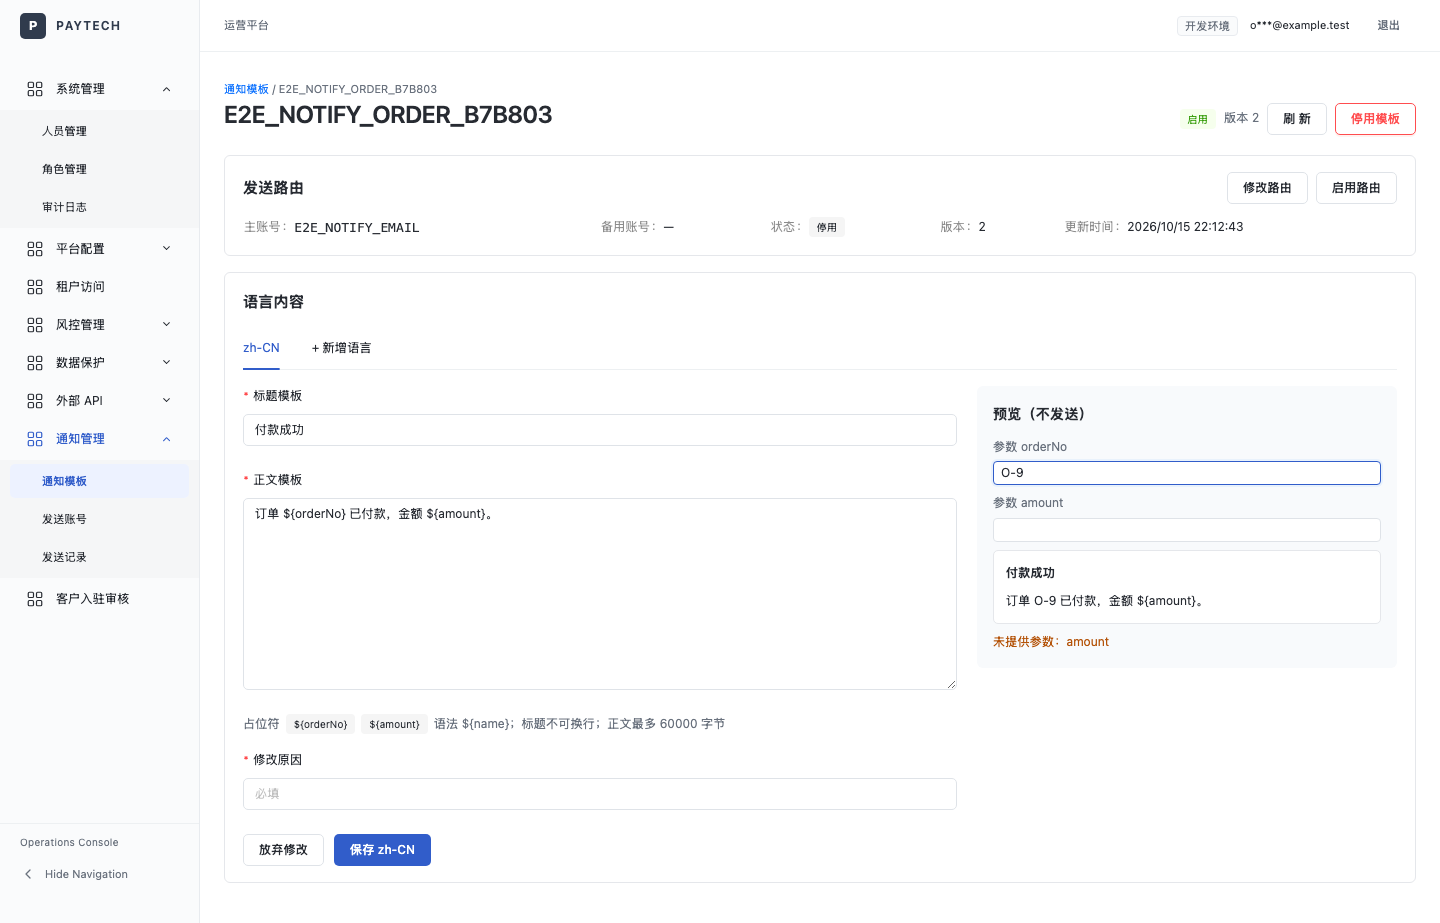
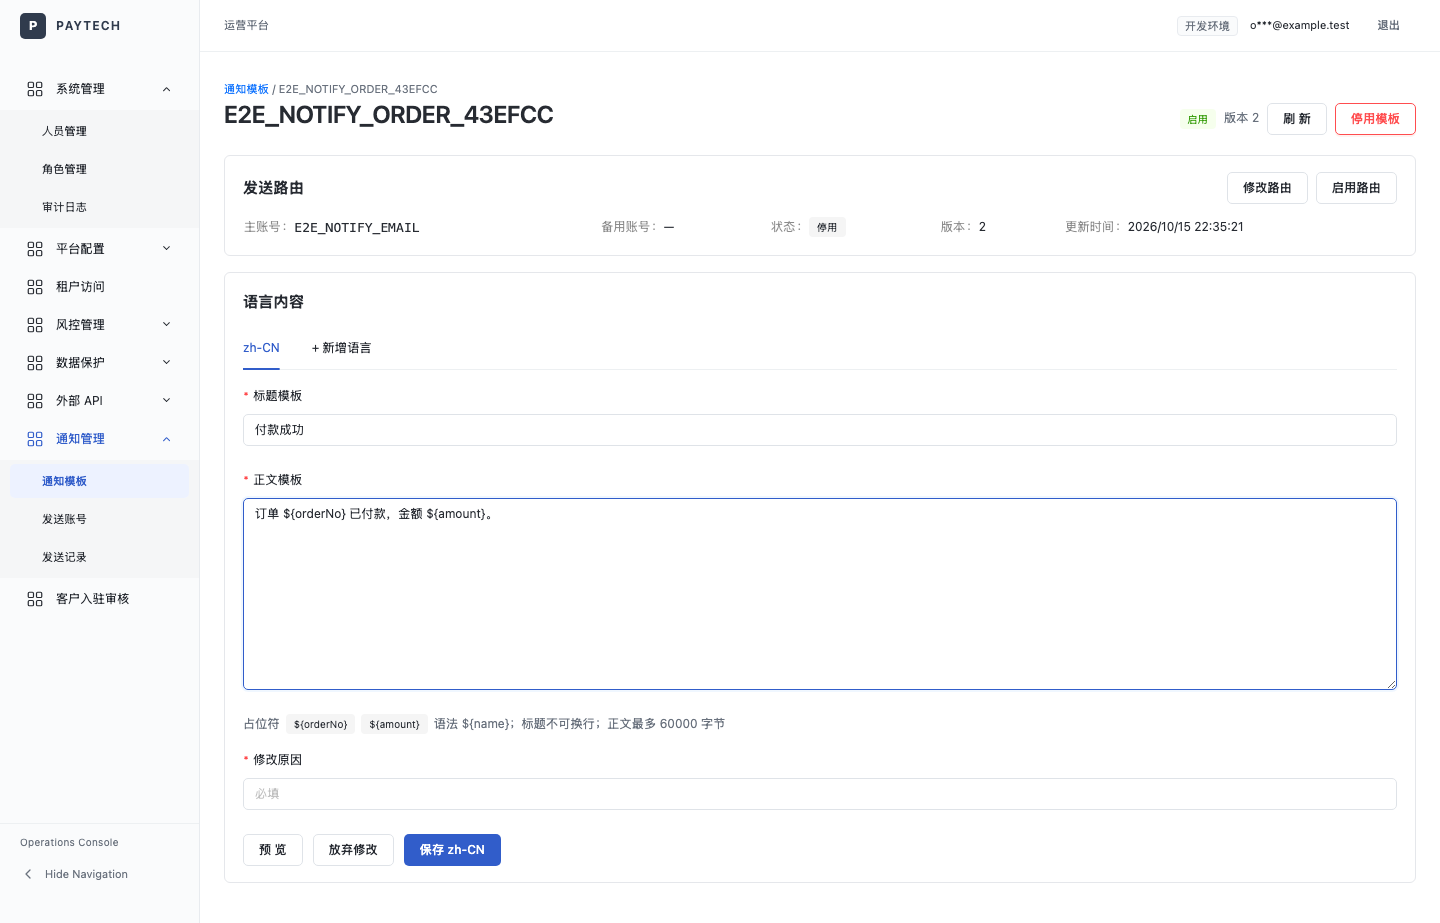
docs(operations): mor-test release record for on-demand notification preview

diff --git a/agent-docs/CURRENT_IMPLEMENTATION.md b/agent-docs/CURRENT_IMPLEMENTATION.md
@@ -167,7 +167,7 @@
 - **Implemented：** Platform `NotificationManagementApi`（`/notification-admin/v1`，12 个接口）、Web 管理 Processor（鉴权、锁、事务、`ConfigurationChanged` 审计）、Delivery `NotificationManagementService` / `NotificationRecordQueryService`；7 个通知仓储不再依赖 `notification.enabled`；审计字段新增 `LOCALE`、`SUBJECT_DIGEST`、`BODY_DIGEST`、`PRIMARY_PROVIDER`、`FALLBACK_PROVIDER`。BFF `NotificationManagementController` 简单转发；Web 新增通知模板、发送账号、发送记录 3 个页面。
 - **Verified：** Platform `./mvnw -o clean verify` **617/617**（全服务 90% 聚合门禁仍为既有失败 0.54/0.37）；Delivery 模块指令 96.78%、分支 90.83%（改动前 96.39%/90.49%）。BFF `clean verify` **1331/1331** 通过。Web `npm test` 1019/1019、`npm run build` 通过。
 - **本机全链路（阶段 5）：** `mor_platform_e2e` 已执行索引 DDL、注册 DML（160 行，ID `900000000000086xxx`～`89xxx`）与 [本机启用 SQL](../requirements/20261015/operations-console-通知管理/db/platform-support-service/activation-local.sql)；本机 `run-service.sh` 的 Platform 改为 `--notification.enabled=true`（删除 SMTP 参数）。经运营入口接口验收 22/22、浏览器验收 16/16，验收数据已清理。
-- **mor-test（阶段 7）：** Platform 升级到 `f84a012`（镜像 `493026bf…`，Compose 去掉 SMTP、开启通知）；BFF / Web 为 `994d5b0` 镜像（Vault 值格式需求发布，已含本需求）；`mor_platform` 执行索引、注册 160 行、认证邮件初始化块与 [test 启用](../requirements/20261015/operations-console-通知管理/release/test-activate.sql)；验收接口 22/22、浏览器 16/16、回归 28 页，验收数据已清理，见[发布记录](../requirements/20261015/operations-console-通知管理/release/release.md)。test 注册验证与找回密码邮件不再进入 Mailpit（未配置 SES）。
+- **mor-test（阶段 7）：** Platform 升级到 `f84a012`（镜像 `493026bf…`，Compose 去掉 SMTP、开启通知）；BFF 为 `994d5b0` 镜像（Vault 值格式需求发布，已含本需求），Web 为 `88a7807`（预览改为按钮 + 弹窗，镜像 `e5df9ddc…`）；`mor_platform` 执行索引、注册 160 行、认证邮件初始化块与 [test 启用](../requirements/20261015/operations-console-通知管理/release/test-activate.sql)；验收接口 22/22、浏览器 16/16、回归 28 页，验收数据已清理，见[发布记录](../requirements/20261015/operations-console-通知管理/release/release.md)。test 注册验证与找回密码邮件不再进入 Mailpit（未配置 SES）。
 - **未完成 / 前提：** 其他环境未执行 DDL / DML；本机与 test 均未配置 SES，未真实发信；`design.pen` 未保存未提交；未推送。
 
 <a id="platform-authentication-email-20261015"></a>

diff --git a/requirements/20261015/operations-console-通知管理/release/release.md b/requirements/20261015/operations-console-通知管理/release/release.md
@@ -78,3 +78,18 @@ test 一直没有部署本需求：`mor_platform` 没有通知管理的权限、
 | 清理 | 合成账号、记录与验收新建的 `E2E_NOTIFY_*` 模板及其内容、路由已删除；通知请求 / 投递 / 尝试表为 0；保留 D3 的认证邮件初始化数据；审计事件为追加记录，保留 |
 
 **当前 test 状态：** Platform `f84a012`（`493026bf…`），BFF / Web 为 Vault 值格式需求发布的 `994d5b0` 镜像（含通知管理）；运营后台可见「通知管理」菜单。test 的注册验证、找回密码邮件不再进入 Mailpit（未配置 SES，发送失败只计指标）。回退按第 6 节，Platform 回退镜像 `d5794c9c…` 需配合备份中的 Compose 副本。
+
+## 8. 追加发布：预览改为按钮 + 弹窗（2026-10-15）
+
+用户回复"提交并部署test"。只替换 Operations Web，Platform、BFF、数据库不动。
+
+| 步骤 | 结果 |
+|---|---|
+| 提交 | `88a7807`（`994d5b0..88a7807` 的 Web 改动只有本次）；`design.pen` 未保存，未包含 |
+| 构建 | 干净 worktree `88a7807`，lock 文件与主工作区一致，`npm run build`；镜像 `mor-test/operations-console-web:notification-preview-20261015` = `sha256:e5df9ddc…ac04de3d`（arm64） |
+| 替换 | 替换前 Web 为 `7e369f33…`；用 [compose-candidate-preview.yaml](./compose-candidate-preview.yaml) 叠加在 Vault 值格式需求的 compose-candidate.yaml 之后，`up -d --no-deps --no-build --pull never --wait operations-console-web`：18:34:18Z 开始，18:34:29Z healthy；入口 `index.html` 引用新构建资源 |
+| 验收 | 接口 **22/22**、浏览器 **17/17**（含"编辑区只有预览按钮""点击后弹窗渲染"，截图 03、03b 已更新）；只读回归 **28 页**无 ≥400 请求、无控制台错误；Web、BFF、Platform、Gateway 日志无合成参数值与 Token |
+| 过程问题 | 第一次执行时 SQL 包装脚本只读标准输入，fixture 以参数传入而未执行，接口验收在配置路由处失败两次，留下 2 个 `E2E_NOTIFY_ORDER_*` 模板（无路由、无记录）；改为标准输入执行 fixture 后通过，统一由清理脚本删除 |
+| 清理 | `acceptance-cleanup-local.sql` 后：E2E 模板 0；模板 2、账号 1、路由 2、内容 2；请求 / 投递 / 尝试 0 |
+| 回退 | 用 Vault 值格式需求的 compose-candidate.yaml（不叠加本文件）重新 `up` Web，回到 `7e369f33…` |
+

diff --git a/requirements/20261015/operations-console-通知管理/delivery.md b/requirements/20261015/operations-console-通知管理/delivery.md
@@ -27,7 +27,8 @@
 | 2026-10-15 | 6→7 | "按建议来，执行吧"：D1 接受 test 认证邮件暂不可达（先上线）；D2 本次先发 BFF/Web；D3 在 test 执行认证邮件初始化块；授权按发布清单执行 test 备份、构建、SQL、Compose 修改与镜像替换、验收与清理 | 执行阶段 7；不推送 Git 与镜像、不碰生产 |
 | 2026-10-15 | 7 | 执行：复核发现 BFF/Web 已由 Vault 值格式需求以 `994d5b0`（含本需求）发布，改为只升级 Platform；备份、构建、DDL、注册 160 行、认证邮件初始化块、Compose 修改、Platform 替换（中断约 24 秒）、启用 12/6/2/1；验收接口 22/22、浏览器 16/16、回归 28 页、日志无泄露；验收数据已清理 | 待确认；Compose 与发布记录待提交（需授权） |
 | 2026-10-15 | 7→8 | 确认阶段 7；授权本地提交阶段 7 的 Compose 修改、发布记录、截图与状态文档 | 本地提交；不推送 |
-| 2026-10-15 | 页面优化 | "预览点击按钮才预览吧，否则页面太挤了，pencil也对应调整下" | 编辑区改为「预览」按钮 + 弹窗；Pencil 同步（technique.md 第 7 节第 17 条）；本机浏览器验收 17/17；未提交、未部署 test |
+| 2026-10-15 | 页面优化 | "预览点击按钮才预览吧，否则页面太挤了，pencil也对应调整下" | 编辑区改为「预览」按钮 + 弹窗；Pencil 同步（technique.md 第 7 节第 17 条）；本机浏览器验收 17/17 |
+| 2026-10-15 | 页面优化 | "提交并部署test" | 提交 `88a7807`；test 只替换 Web（`e5df9ddc…`）；接口 22/22、浏览器 17/17、回归 28 页，验收数据已清理，见[发布记录](./release/release.md)第 8 节 |
 
 ## 当前阶段与下一确认点
 
